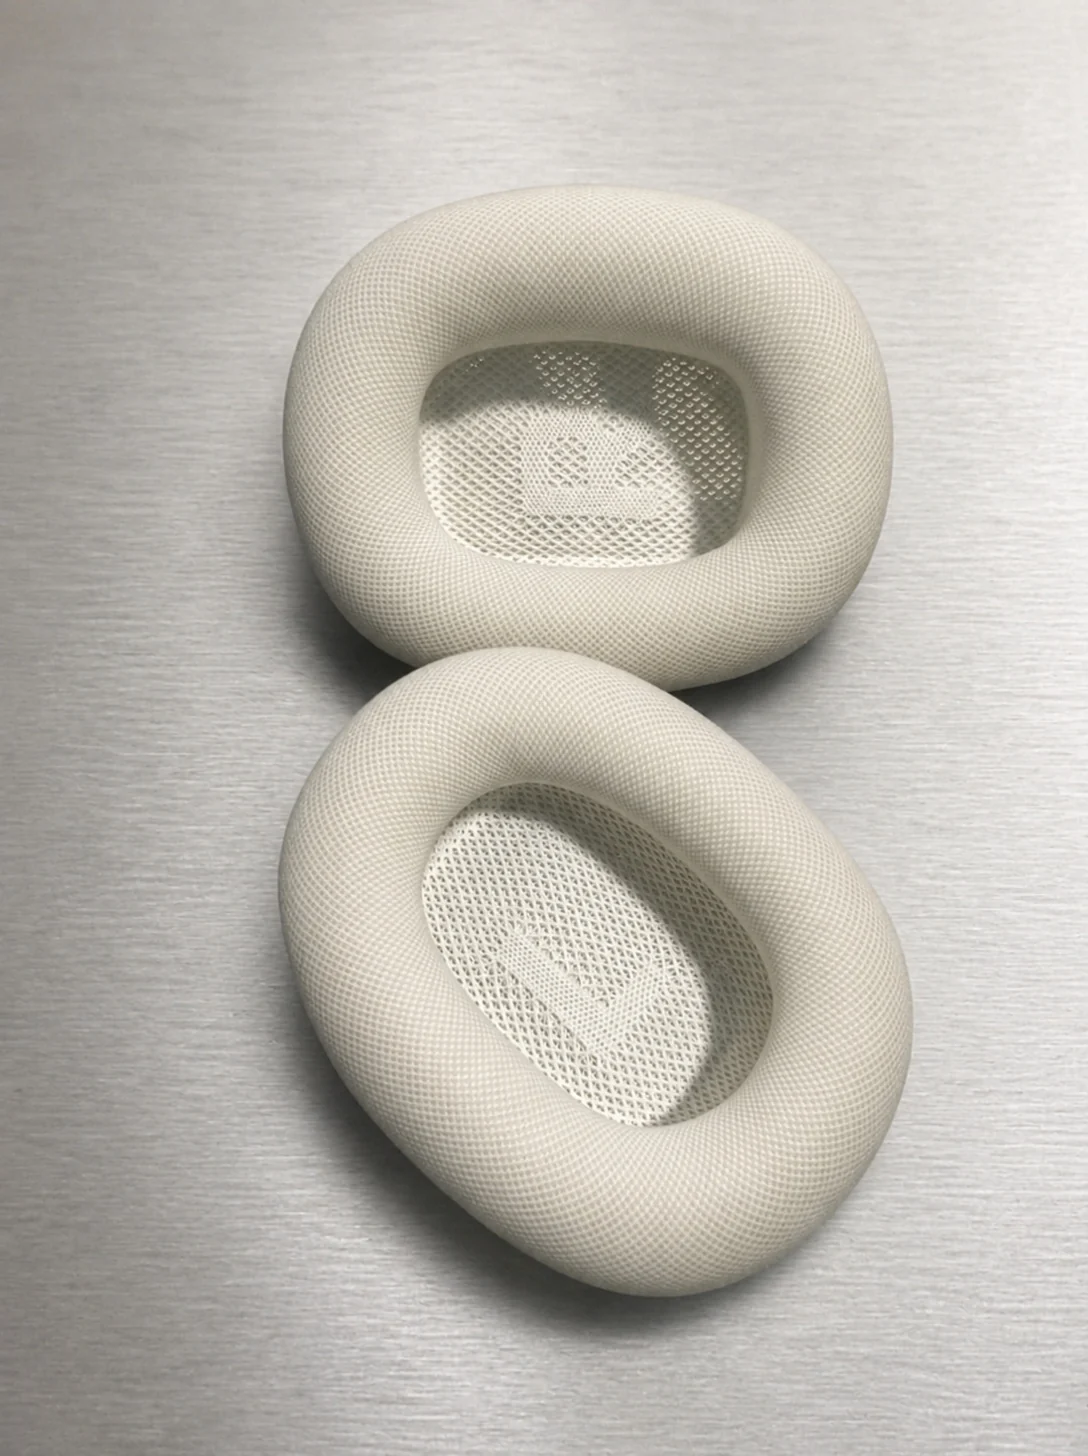
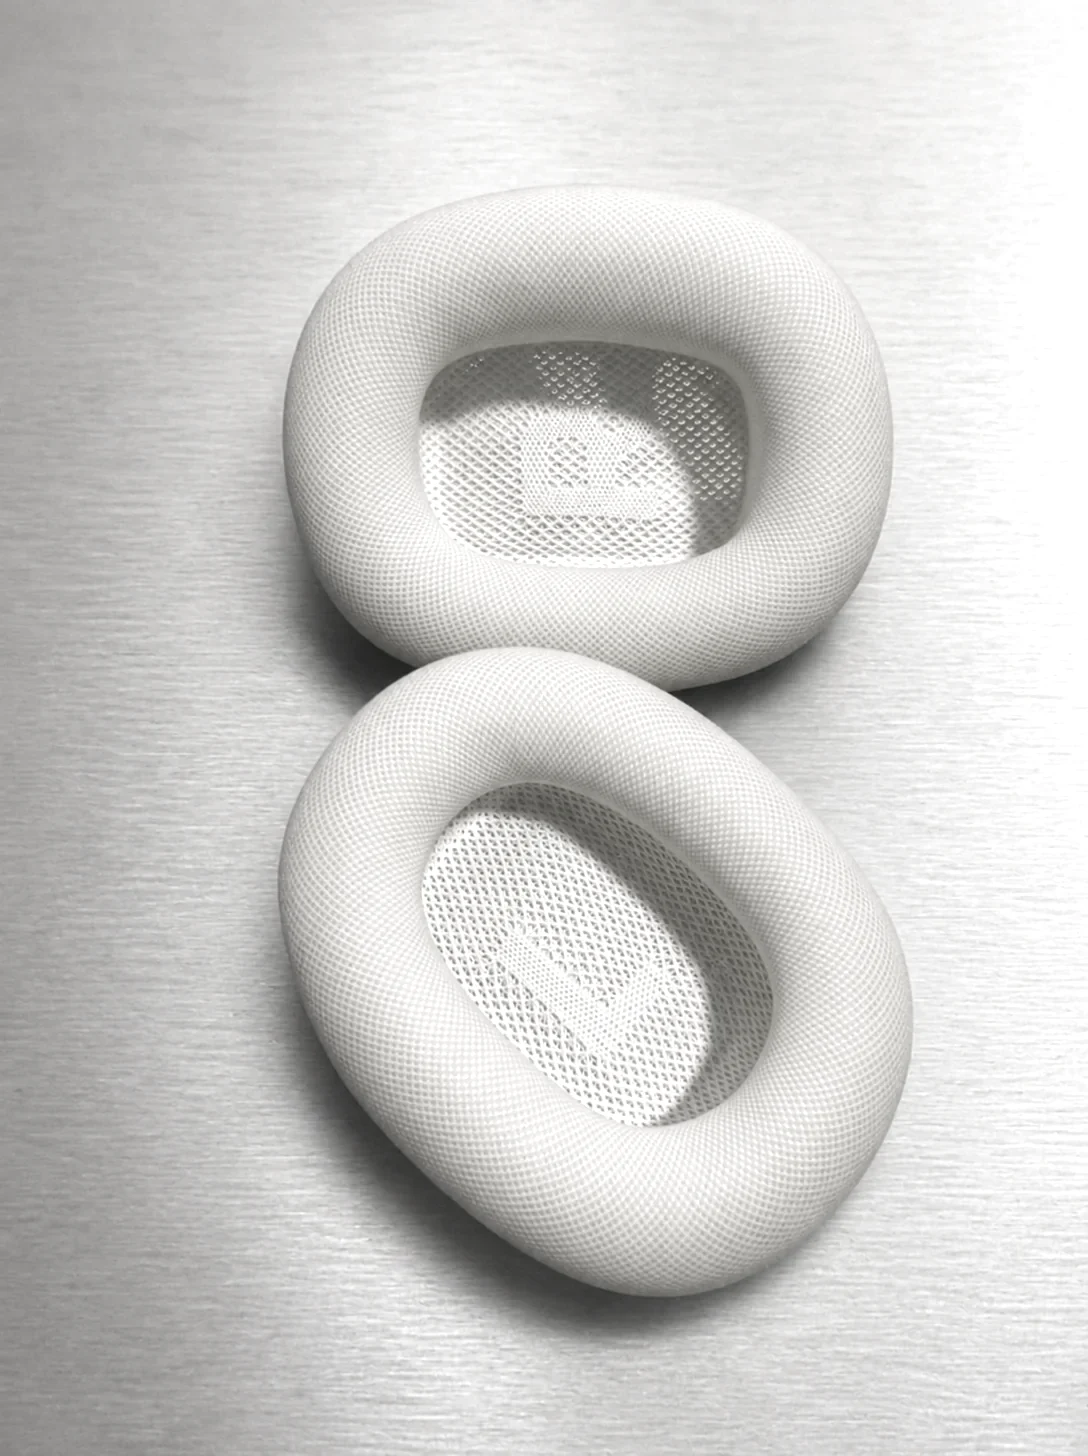
Preuve : l’« après » est blanc (teinte crème neutralisée, maille éclaircie)

diff --git a/index.html b/index.html
@@ -161,8 +161,8 @@
             <img class="compare__before" src="photos/realisation-avant.webp" width="1088" height="1456" alt="Coussinets d’AirPods Max tels que reçus : maille grise et tachée." loading="lazy">
           </picture>
           <picture>
-            <source media="(max-width: 800px)" srcset="photos/realisation-apres-780.webp?v=2">
-            <img class="compare__after" src="photos/realisation-apres.webp?v=2" width="1088" height="1456" alt="Les mêmes coussinets après remise à neuf : maille blanche." loading="lazy">
+            <source media="(max-width: 800px)" srcset="photos/realisation-apres-780.webp?v=3">
+            <img class="compare__after" src="photos/realisation-apres.webp?v=3" width="1088" height="1456" alt="Les mêmes coussinets après remise à neuf : maille blanche." loading="lazy">
           </picture>
           <span class="compare__tag compare__tag--before" aria-hidden="true">Avant</span>
           <span class="compare__tag compare__tag--after" aria-hidden="true"><i class="dot"></i>Après</span>
